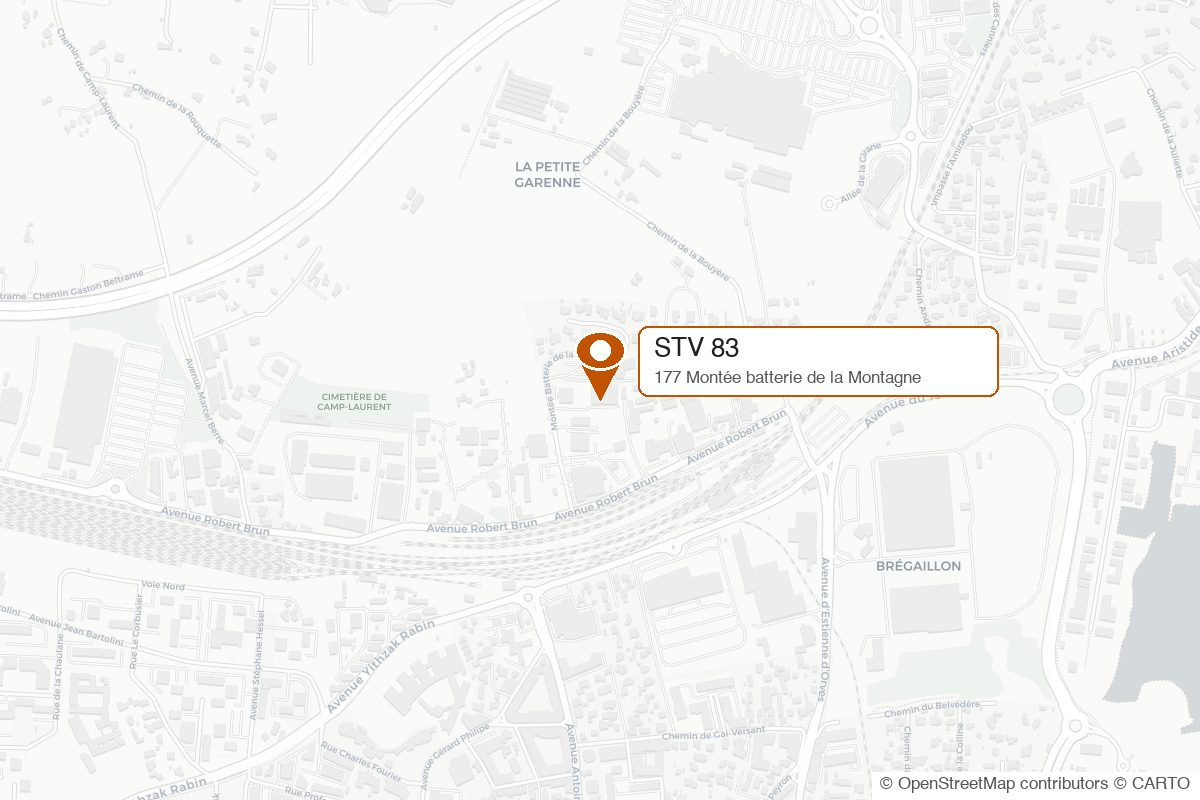
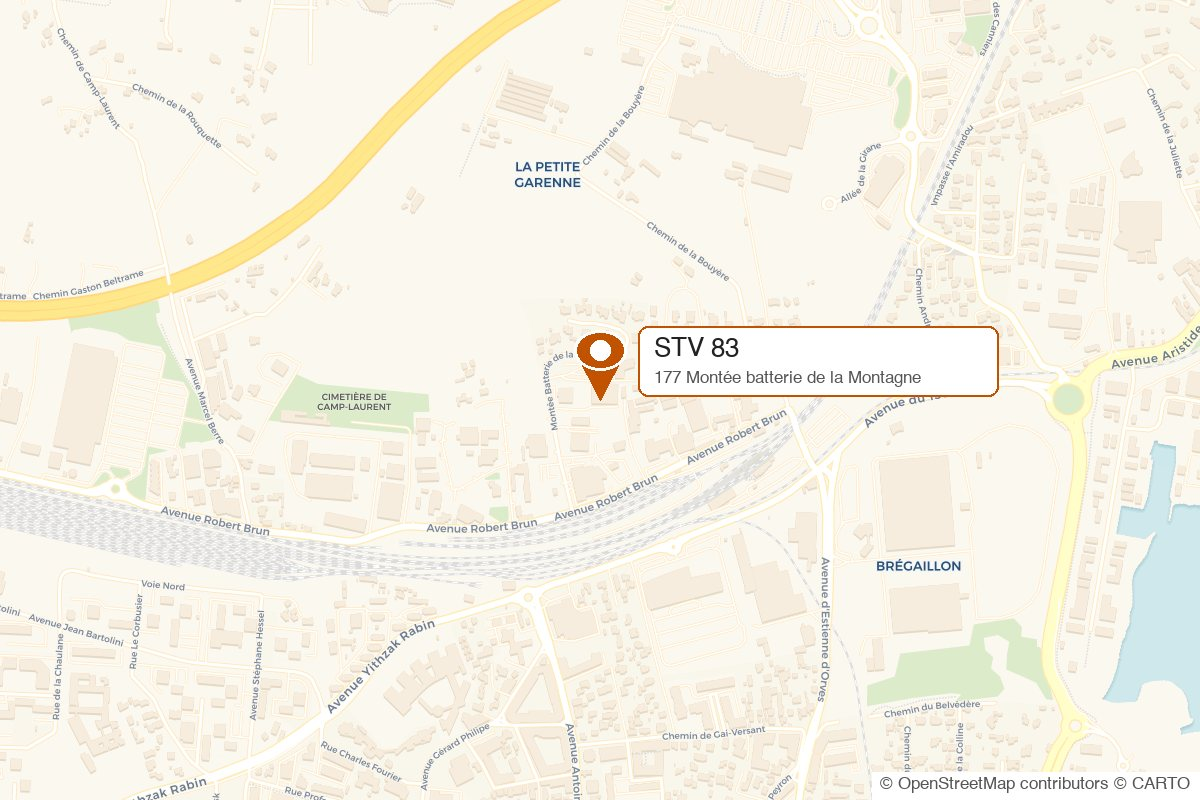
Carte contact : style Voyager + boost contraste pour les routes
- A50 en jaune, axes et noms de rues bien lisibles (saturation +25%,
  contraste +8%), fond crème — bon compromis lisibilité/sobriété
- CACHE_VERSION v6 (remplacement in-place de map-atelier.*)

diff --git a/sw.js b/sw.js
@@ -9,7 +9,7 @@
 
 'use strict';
 
-const CACHE_VERSION = 'stv83-v5';
+const CACHE_VERSION = 'stv83-v6';
 
 const PRECACHE_ASSETS = [
   '/preprod/index.html',
